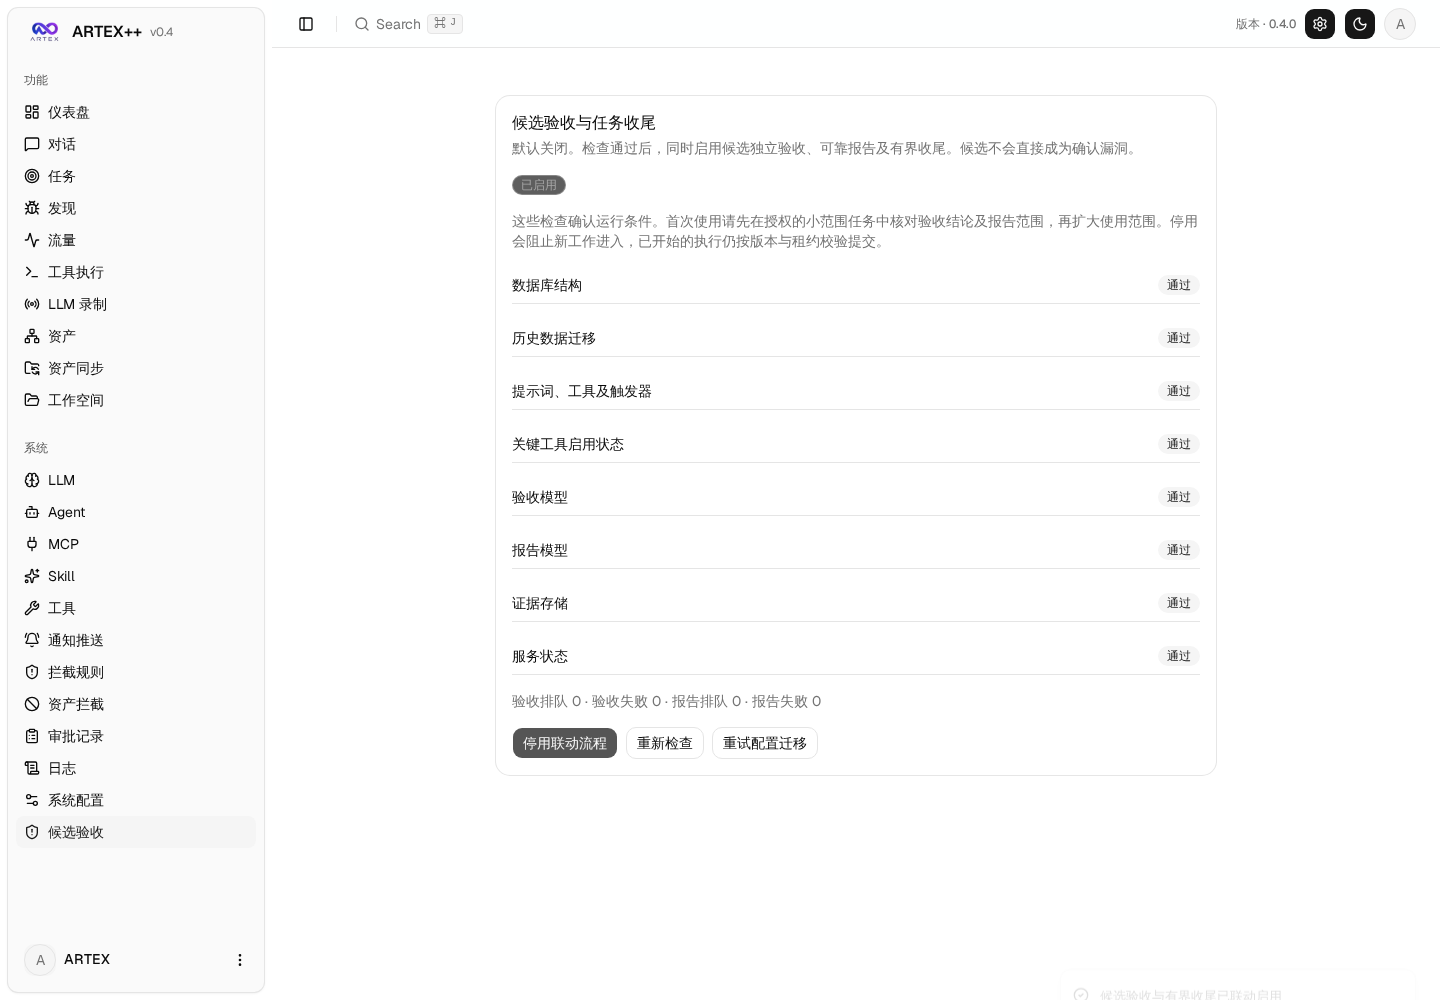
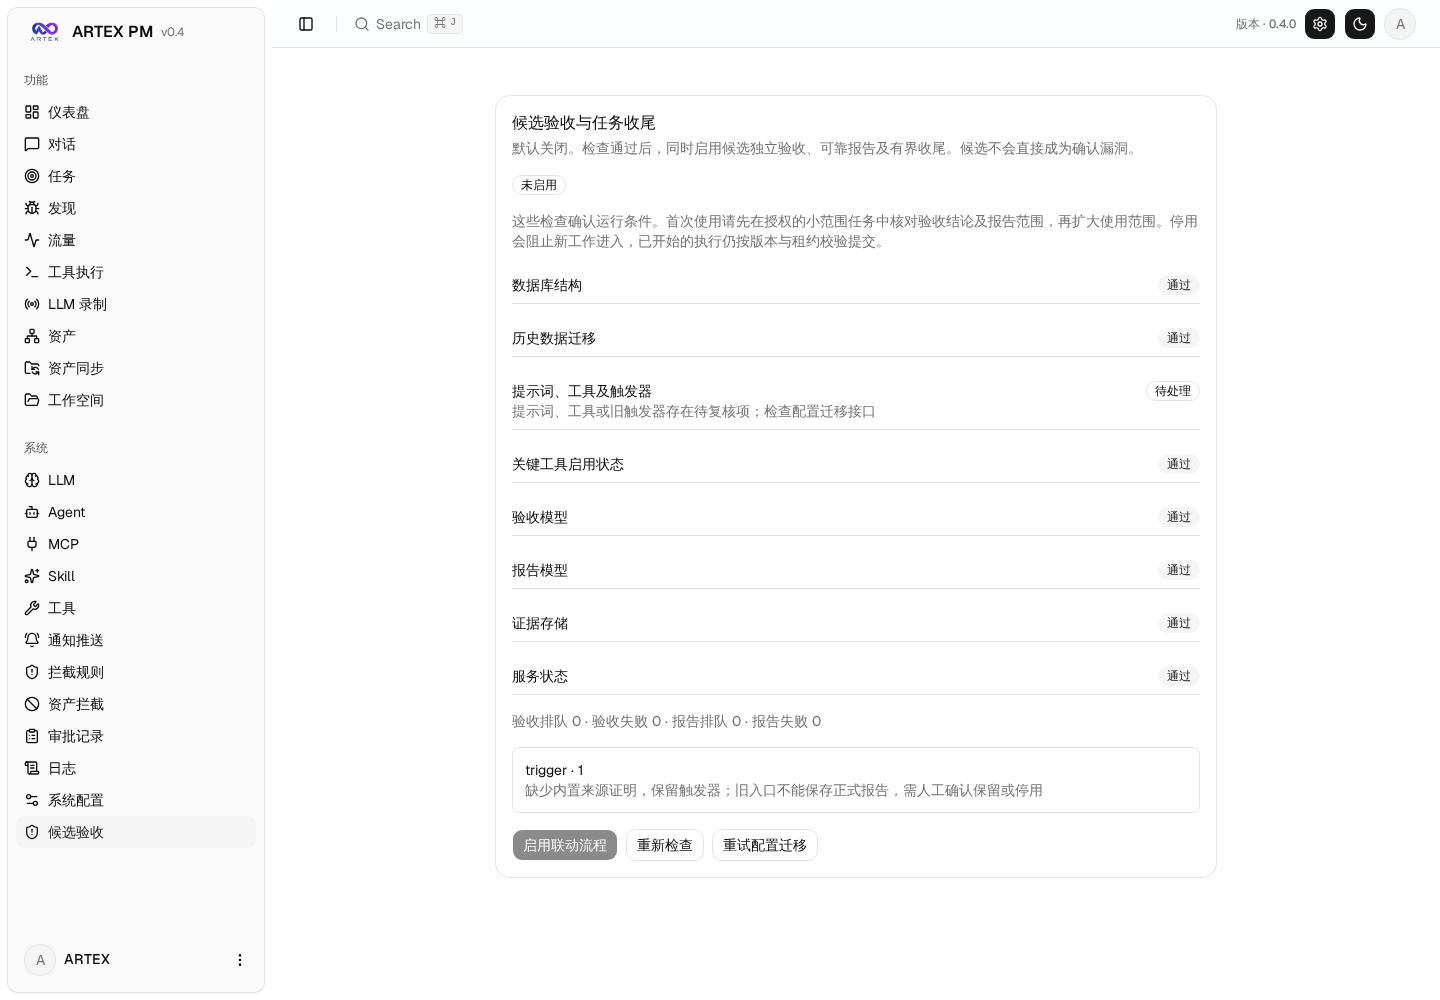
fix(ui): rename console to ARTEX PM v0.4

diff --git a/web/src/config/app-config.ts b/web/src/config/app-config.ts
@@ -3,12 +3,12 @@ import packageJson from "../../package.json";
 const currentYear = new Date().getFullYear();
 
 export const APP_CONFIG = {
-  name: "ARTEX++",
+  name: "ARTEX PM",
   displayVersion: "v0.4",
   version: packageJson.version,
-  copyright: `© ${currentYear}, ARTEX++.`,
+  copyright: `© ${currentYear}, ARTEX PM.`,
   meta: {
-    title: "ARTEX++ v0.4 — 自主渗透测试控制台",
+    title: "ARTEX PM v0.4 — 自主渗透测试控制台",
     description: "LLM 驱动的自主渗透测试系统控制台",
   },
 };

diff --git a/README.md b/README.md
@@ -1,6 +1,6 @@
 <div align="center">
 
-# ARTEX++ v0.4 · ArtexPM
+# ARTEX PM v0.4 · ArtexPM
 
 AI 自主渗透测试系统（Go 后端 + Next.js 前端）
 
@@ -28,7 +28,7 @@ AI 自主渗透测试系统（Go 后端 + Next.js 前端）
 
 ## v0.4 更新：候选验收与报告流程（2026-10-28）
 
-界面名称现为 **ARTEX++ v0.4**，原登录用户名 `ARTEX` 和已有数据保持兼容。本次更新完善了漏洞发现、证据验收和报告交付流程，减少未经充分验证的结论进入正式报告，并让后续验证更有依据。
+界面名称现为 **ARTEX PM v0.4**，原登录用户名 `ARTEX` 和已有数据保持兼容。本次更新完善了漏洞发现、证据验收和报告交付流程，减少未经充分验证的结论进入正式报告，并让后续验证更有依据。
 
 - **漏洞发现先登记、再验收**：新发现先保存为候选，经过独立验收后，才能作为确认漏洞生成正式报告或用于判断任务完成。
 - **验收意见帮助继续验证**：缺失的证据、尚未获得支持的主张会反馈给任务规划者，便于继续补充对照、核实影响范围，而不是停留在初步现象上。
@@ -49,9 +49,9 @@ AI 自主渗透测试系统（Go 后端 + Next.js 前端）
 
 ## 截图预览
 
-> 以下多数界面示意截自上游版本；候选验收检查页为本分支隔离部署测试的实际截图。
+> 以下多数界面示意截自上游版本；候选验收检查页为本分支 ARTEX PM v0.4 的实际截图。
 
-**候选验收与任务收尾：启用检查（隔离测试实例）**
+**候选验收与任务收尾：启用检查（配置待复核示例）**
 
 ![候选验收与任务收尾启用检查](screenshots/verification-lifecycle.png)
 
@@ -186,7 +186,7 @@ docker compose -p artex_last_version-main up -d --no-deps --pull never artex
 Invoke-RestMethod http://localhost:8787/api/health
 ```
 
-4. 打开 [控制台](http://localhost:8787)，应看到 **ARTEX++ v0.4**。使用原密码登录，检查原任务和发现，再进入“系统 → 候选验收”。默认关闭；处理页面提示的配置复核项、检查通过后再启用。重建容器可能需要重新登录，用户名仍为 `ARTEX`。
+4. 打开 [控制台](http://localhost:8787)，应看到 **ARTEX PM v0.4**。使用原密码登录，检查原任务和发现，再进入“系统 → 候选验收”。默认关闭；处理页面提示的配置复核项、检查通过后再启用。重建容器可能需要重新登录，用户名仍为 `ARTEX`。
 
 备份含密码、签名密钥及业务证据，请保存在仓库之外。升级后的数据库不能保证兼容旧程序，**回退需同时恢复升级前的数据库与 `data` 快照，并恢复旧 `.env`、旧镜像；仅切换镜像不算完整回退**。先停应用，在独立库验证恢复备份后再切回，保留当前数据另作快照。
 

diff --git a/CHANGELOG.md b/CHANGELOG.md
@@ -4,7 +4,7 @@
 
 ## [0.4.0] - 2026-10-28
 
-- 前端品牌更新为 **ARTEX++ v0.4**，涵盖页面标题、侧栏、登录与初始化页；登录用户名仍为 `ARTEX`。
+- 前端品牌更新为 **ARTEX PM v0.4**，涵盖页面标题、侧栏、登录与初始化页；登录用户名仍为 `ARTEX`。
 
 ### 发现
 
